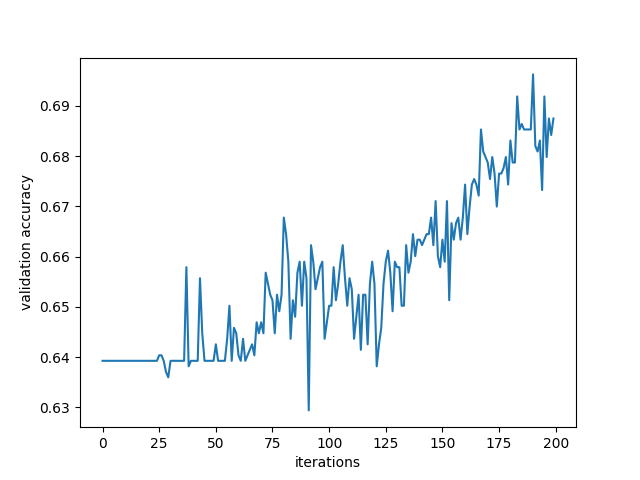
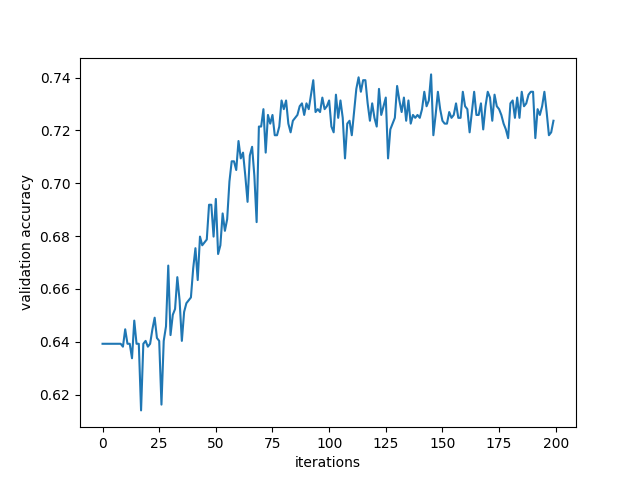
closer

diff --git a/Vishal_tests/base/smile_model.py b/Vishal_tests/base/smile_model.py
@@ -240,7 +240,7 @@ print("defined model")
 model.type(dtype)
 model.train()
 loss_fn = nn.CrossEntropyLoss().type(dtype)
-optimizer = optim.Adam(model.parameters(), lr=5e-5,weight_decay=0.005)
+optimizer = optim.Adam(model.parameters(), lr=1e-4,weight_decay=0.005)
 print("start training")
 loss_history,acc_history,val_acc_history=train(train_loader,val_loader, model, loss_fn, optimizer, dtype,num_epochs=25, print_every=10)
 
